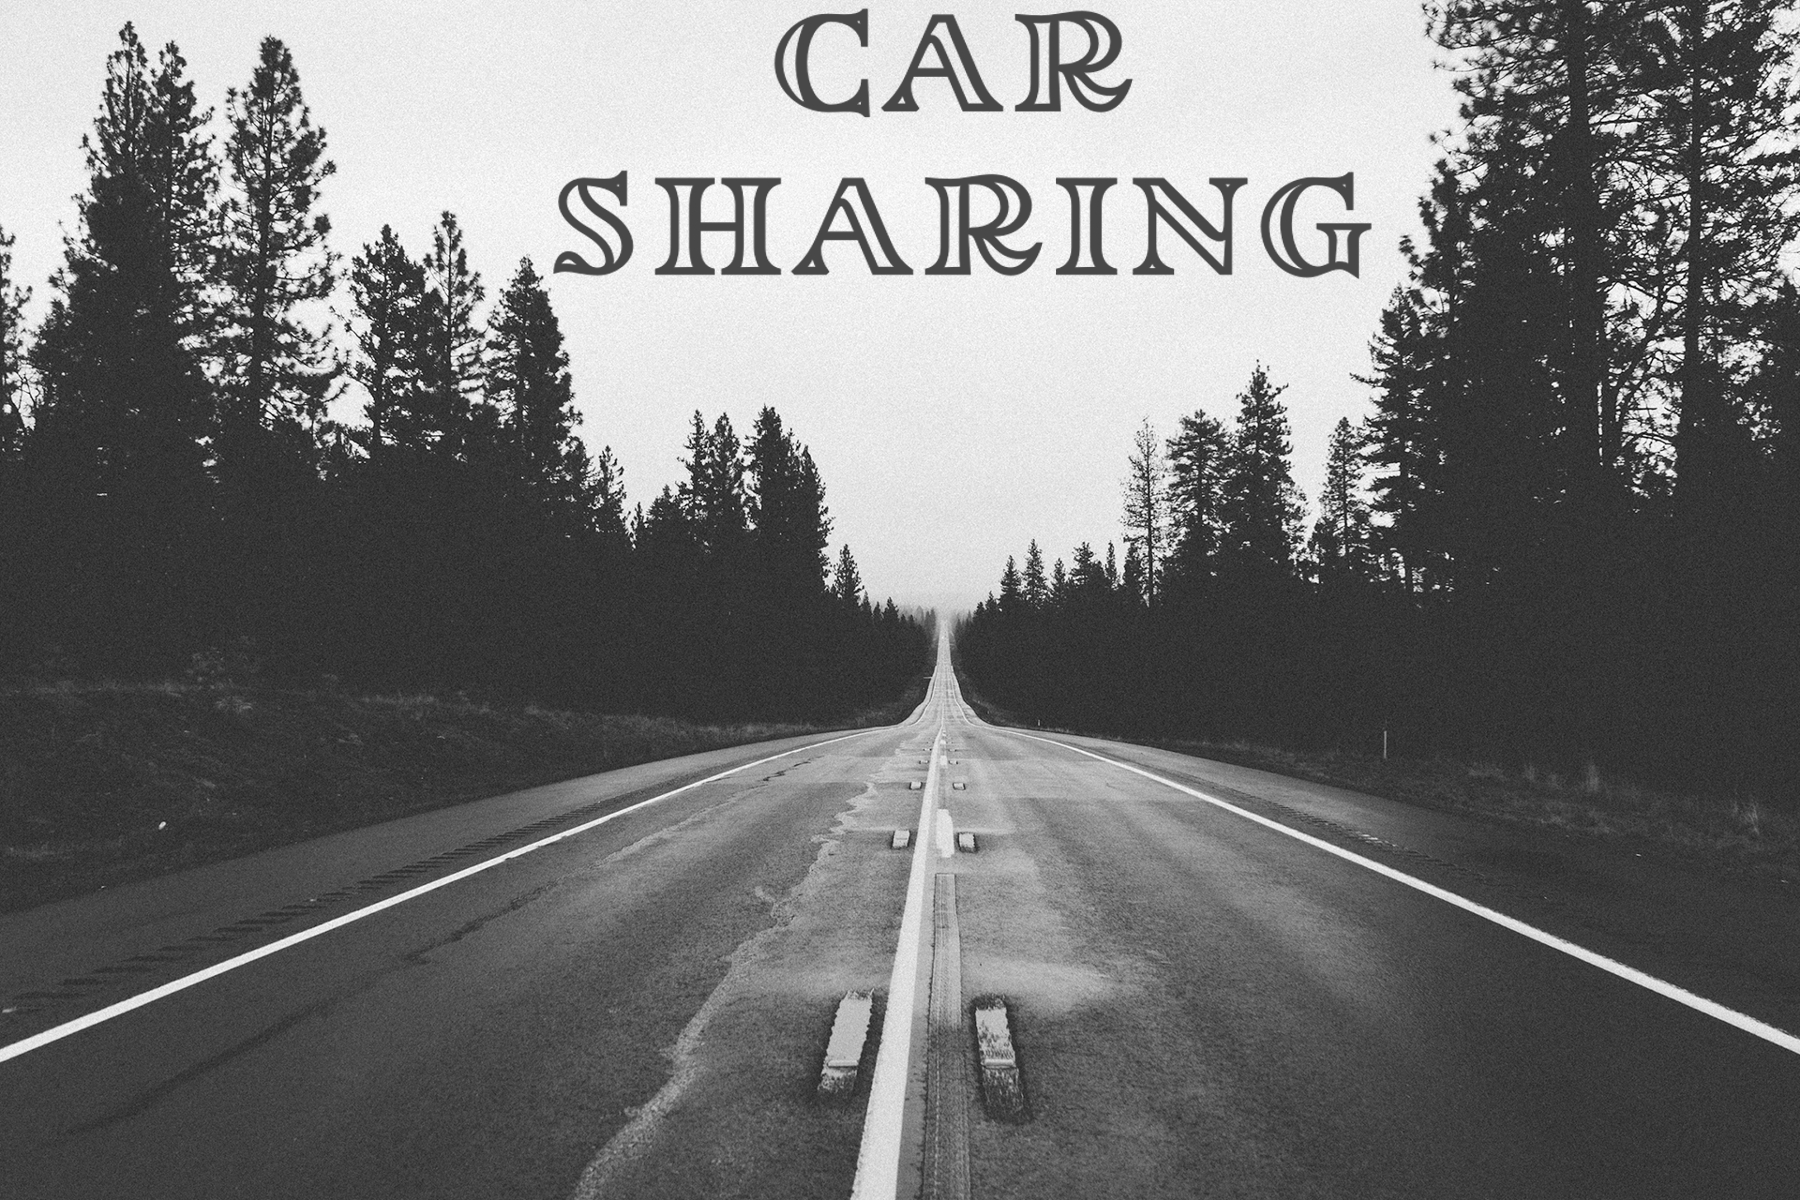
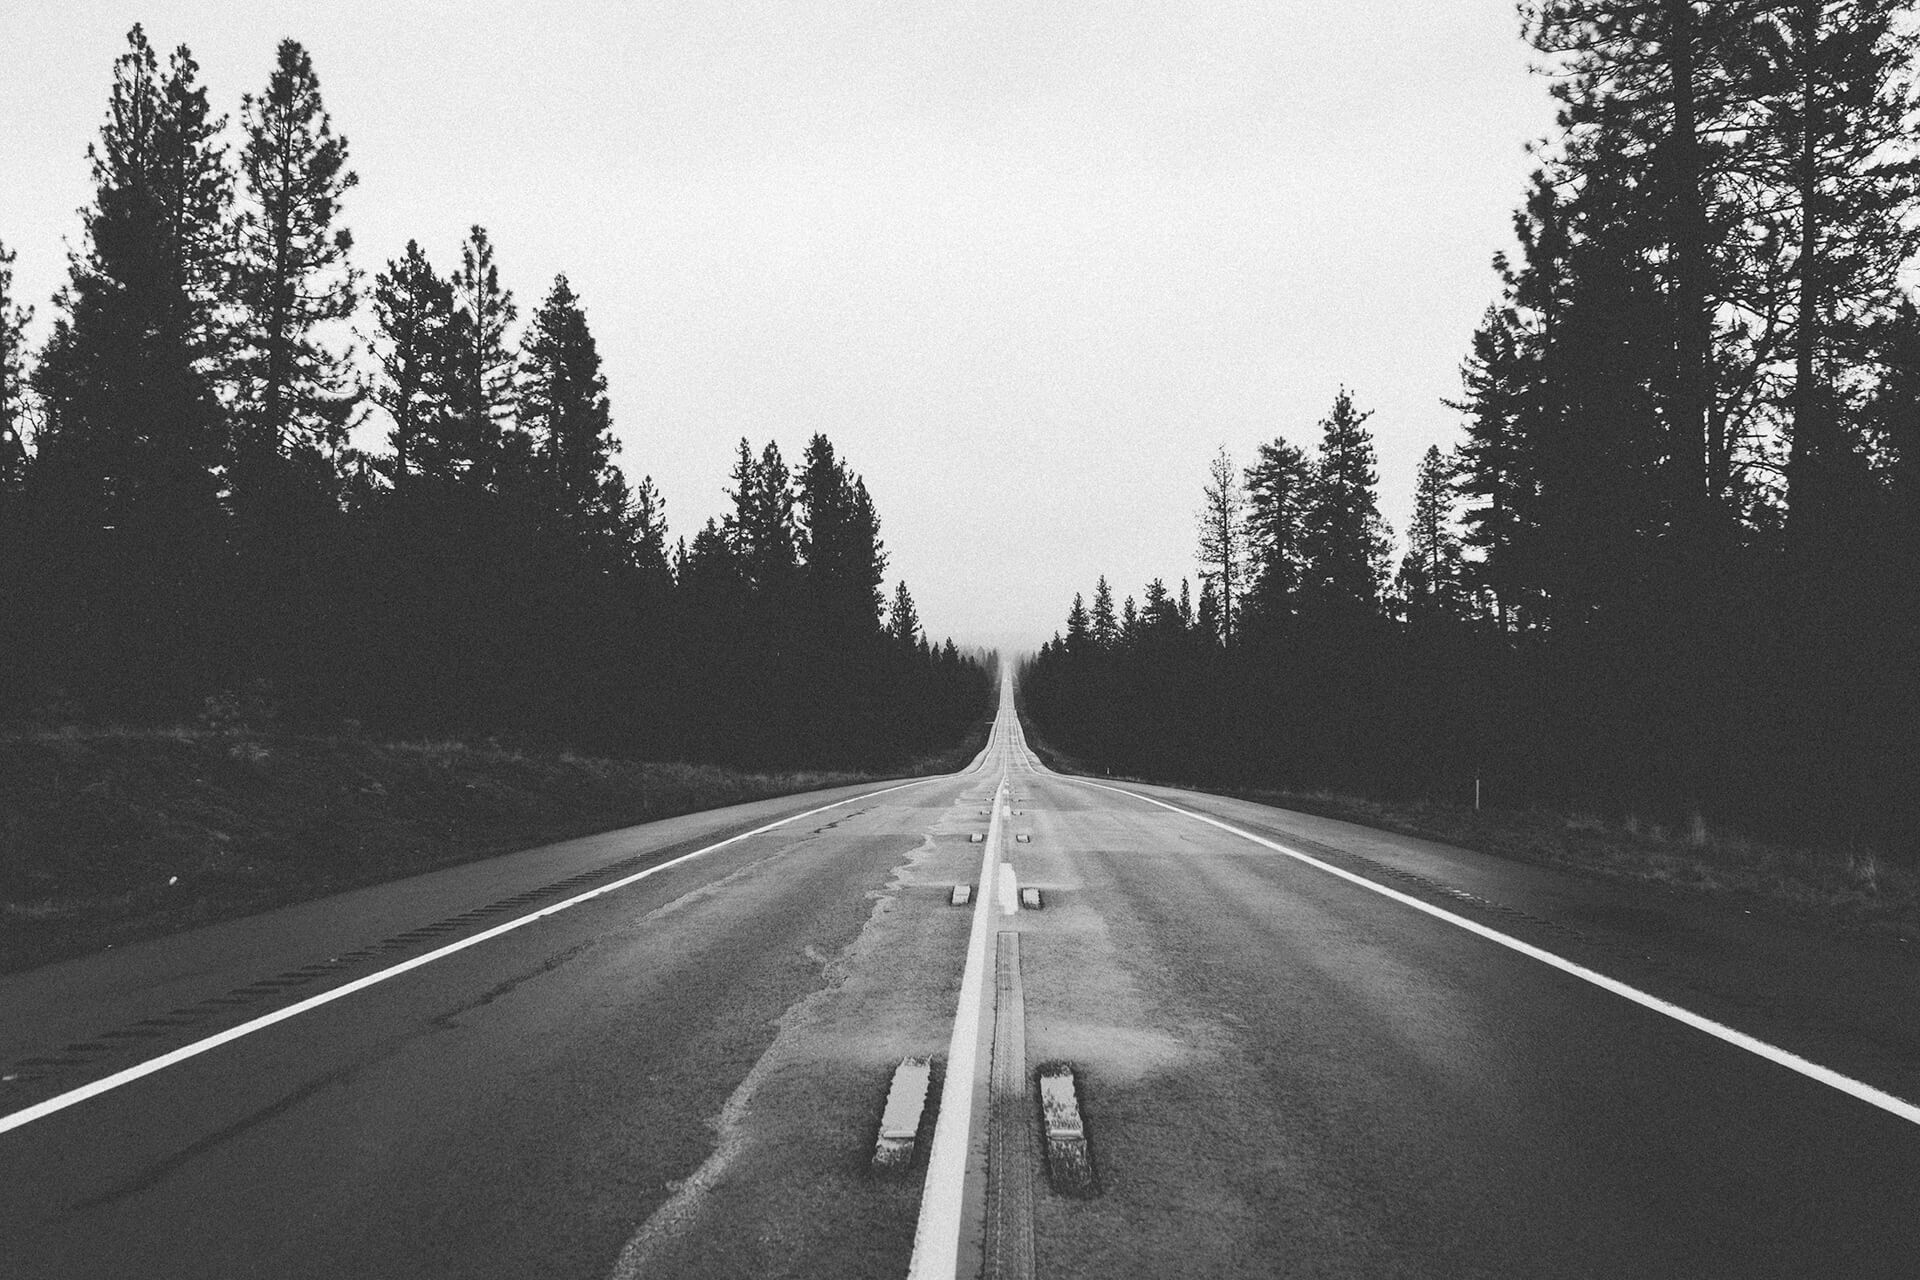
Projeto IG - PGIPR
Portal de Gestão e Inscrição em Provas Running

Changed region(s): [[0.3111, 0.1233, 0.7778, 0.2467], [0.4044, 0.0, 0.6222, 0.0925]]

diff --git a/index.html b/index.html
@@ -5,19 +5,19 @@
     ================================================== -->
     <meta charset="utf-8">
     <meta name="viewport" content="width=device-width, initial-scale=1">
-    <title>Car 4 Day - Home Page</title>
-    <meta name="description" content="Empresa de Mobilidade Urbana a desenvolver uma aplicação de Car Sharing">
-    <meta name="keywords" content="car4day, car, day, carsharing, sharing, urban, mobilidade urbana, mobilidade, urbana, urbanmshare,urban share, urban m share, share, car share, urban car, 4 day, car for day, for day, car a day, car day, car4you, 4you, you, for you, car for you">
-    <meta name="author" content="Pedro Pereira, car4you.ciqueis.com">
-    <meta property="og:image" content="http://car4you.ciqueis.com/img/logo_empresa.png" />
-	<meta property="og:description" content="Website da Empresa Car 4 Day. Car 4 Day é o nome de um grupo de trabalho para o desenvolvimento de uma aplicação em C# de Car Sharing. Mobilidade Urbana é um dos temas mais falados actualmete, sendo o mesmo, tema de trabalho, a desenvolver na disciplina de Sistemas de Apoio a Decisão do 3º ano da Licenciatura de Iformática de Gestão e de Engenharia Informática no ISPGaya." />
-	<meta property="og:url"content="http://car4you.ciqueis.com/" />
-	<meta property="og:title" content="Car 4 Day" />
+    <title>PGIPR - Portal de gestão de inscrição em provas do de running</title>
+    <meta name="description" content="Portal de gestão de inscrição em provas do de running - PGIPR">
+    <meta name="keywords" content="PGIPR">
+    <meta name="author" content="Pedro Pereira, komodoro.github.io">
+    <meta property="og:image" content="" />
+	<meta property="og:description" content="Website de Projeto de IG - ISPGaya - PGIPR" />
+	<meta property="og:url"content="komodoro.github.io" />
+	<meta property="og:title" content="PGIPR - Projeto de IG" />
 
     
     <!-- Favicons
     ================================================== -->
-    <link rel="icon" type="image/png" sizes="16x16" href="img/favicon/favicon-16x16.png">
+    <link rel="icon" type="image/png" sizes="16x16" href="">
 
     <!-- Bootstrap -->
     <link rel="stylesheet" type="text/css"  href="css/bootstrap.css">
@@ -54,7 +54,7 @@
                     <span class="icon-bar"></span>
                     <span class="icon-bar"></span>
                 </button>
-                <a class="navbar-brand">Car 4 Day</a>
+                <a class="navbar-brand">PGIPR</a>
             </div>
             <!-- Collect the nav links, forms, and other content for toggling -->
             <div class="collapse navbar-collapse" id="bs-example-navbar-collapse-1">
@@ -88,7 +88,7 @@
 				    <li><a href="#works" class="page-scroll">Produtos</a></li>
 				    <li><a href="#about-us" class="page-scroll">Sobre Nós</a></li>
 				    <li><a href="#contact" class="page-scroll">Contactos</a></li>
-				    <li><a href="https://urbanshare.ciqueis.com/fr/" class="page-scroll" target="_blank">Área Privada</a></li>
+				    <li><a href="nunofilipe.pt/nfccloud/" class="page-scroll" target="_blank">Área Privada</a></li>
                 </ul>
             </div>
             <!-- /.navbar-collapse -->
@@ -110,7 +110,7 @@
             <li><a href="#works" class="page-scroll">Produtos</a></li>
             <li><a href="#about-us" class="page-scroll">Sobre Nós</a></li>
             <li><a href="#contact" class="page-scroll">Contactos</a></li>
-            <li><a href="https://urbanshare.ciqueis.com/fr/" class="page-scroll">Área Privada</a></li>
+            <li><a href="" class="page-scroll">Área Privada</a></li>
         </ul><!--- End Menu -->
    </div> <!--- End Off Canvas Side Menu -->
 
@@ -123,7 +123,7 @@
             </nav> -->
 
             <div class="content">
-                <h4 style="color:black">Car 4 Day</h4>
+                <h4 style="color:black">PGIPR</h4>
                 <hr>
                 <div class="header-text btn">
                     <h1><span style="color:black" id="head-title"></span></h1>
@@ -145,16 +145,15 @@
                         <h2>Quem Somos</h2>
                         <hr>
                     </div>
-                    <p>A Car 4 Day é uma empresa fundada a 18 de Outubro de 2016 no âmbito da cadeira de Sistemas de Apoio à Decisão.</p>
-                    <p>A Car 4 Day tem como propósito desenvolver uma aplicação para facilitar a mobilidade urbana sob o conceito de car sharing.</p>
-                    <p>Apresenta-se com uma equipa dinâmica e astuta que conclui todas as suas metas e objectivos a atempadamente, superando todos os desafios e barreiras que lhe são apresentados no percurso do desenvolvimento da aplicação Urban M Share. </p>
-                </div>
+					<p>Este projeto, no âmbito da unidade curricular Projeto de IG em contexto de projeto do ISPGaya do 3.º ano da Licenciatura em Informática de Gestão, foi realizado com o propósito de descrever o trabalho realizado no âmbito da criação de uma GIE para auxilio de administradores de grupos de eventos de corrida(running). </p>
+					<p>O projeto Portal de gestão de inscrição em provas de Running (PGIPR) desenvolvido encontra-se enquadrado no conceito de gestão de um grupo desportivo, com o principio de ajudar à gestão e mobilização de interessados em grupos de running à inscrição de provas a serem realizadas por grupos de realização de provas de running externos melhorando a inscrição em futuros eventos de running. </p>
+                    </div>
             </div>
         </div>
     </div>
 
 								<div class="text-center">
-									<img src="img/logo_empresa_peq.png" alt="...">
+									<h1> PGIPR </h1>
 			                    	
 			                    </div>
     
@@ -168,8 +167,7 @@
                     <div class="service">
                         
                         <h4>Missão</h4>
-                        <p>A missão da Car 4 Day é desenvolver serviços para melhorar a deslocação de cada indivíduo no seu dia-a-dia, bem como melhorar esse serviço, assegurando a satisfação dos seus clientes, criando valor para os acionistas e satisfação dos seus parceiros. 
-                        	</p>
+                        <p>A missão do Projeto de IG (PGIPR) é desenvolver serviços para melhorar a inscrição de cada indivíduo em eventos e auxiliar o administrador e responsavel de um clube desportivo a facilitar essa inscrição, bem como melhorar esse serviço, assegurando a satisfação dos seus atletas, criando valor para os acionistas e satisfação dos seus parceiros. </p>
                     </div>
                 </div>
 
@@ -177,9 +175,10 @@
                     <div class="service">
                        
                         <h4>Visão</h4>
-                        <p>Car 4 Day quer ser conhecida por ser uma empresa inovadora e criativa para o mercado, tentando encontrar novas necessidades e melhorias no que diz respeito ao deslocamento/mobilidade urbana.
-                        	</p>
-                    </div>
+                        <p>A Visão aplicada ao Projeto de IG (PGIPR) quer ser conhecida por ser um projeto inovador e criativo para o mercado, tentando encontrar novas necessidades e melhorias no que diz respeito ao desporto e melhoria da vida quotidiana do atleta.</p>
+						<p> </p>
+						<p> </p>
+					</div>
                 </div>
 
                 <div class="col-md-4 col-sm-4">
@@ -189,6 +188,8 @@
                         <p>Integridade, cooperação, respeito pelo meio ambiente, responsabilidade social, valorização e respeito pelas pessoas, satisfação do cliente, excelência e simplicidade.  </p>
 						<p> </p>                    
                     	<p> </p>
+						<p> </p>
+						
                     </div>
                 </div>
                 
@@ -202,99 +203,48 @@
             <div class="row text-center">
                 <div class="col-md-8 col-md-offset-2">
                     <div class="section-title">
-                        <h2>Produtos</h2>
+                        <h2>Produto</h2>
                         <hr>
                     </div>
-                    <p>Desenvolvemos a pensar em si!</p>
+                    <p>Objetivo</p>
                     <br>
-                    <p>O Urban M Share uma aplicação cliente/servidor, desenvolvida na linguagem de programação C# (C Sharp) para Sistemas Operativos Windows. Desenvolvido sob uma linha visual elegante utilizando a tecnologia de Windows Forms, com o intuito de disponibilizar informação existente de organizações de carsharing e os seus serviços.</p>
-                    <p>O Urban M Share permite a visualização de veículos disponiveis das empresas de carsharing, a possibilidade de alugar o veículo disponivel como calcular o valor final a pagar sob o tempo estimado especulado do aluguer. </p>
-                    <p>A aplicação permite no final do aluger, numa proxima sessão, submeter um comentário sobre a empresa/veículo e serviço prestado como também visualizar comentários submetidos por outros clientes. </p>
-                </div>
+					<p>O objetivo principal do projeto é melhorar e ajudar à inscrição automática de grupos de corrida em eventos a serem realizados por entidades de desporto externas à mesma.</p>
+					<p>É uma plataforma restrita e sem permissão de registo de utilizadores. </p>
+					<p>Os utilizadores registados podem inscrever-se em provas disponíveis, e visitantes dá página poderão somente ver eventos/provas que se encontram disponíveis.</p>
+                    </div>
             </div>
             <div class="space"></div>
         </div>
-        <div class="container-fluid">
-            <div class="row">
-                <div class="col-md-4 col-md-offset-4">
-                    <div class="portfolio-item">
-                        <div class="text-center hover-bg">
-                            <a href="http://urbanshare.ciqueis.com" target="_blank">
-                                <div class="hover-text">
-                                    <h5>"Urban M Share"</h5>
-                                    <p class="lead">Urban Car Sharing System for Cities Mobility</p>
-                                    <div class="hline"></div>
-                                </div>
-                                <img src="img/portfolio/01 - urbanMshare_pre_logoxcf_attempt1_no_back.png" class="img-responsive" alt="...">
-                            </a>
-                        </div>
-                    </div>
-                </div>
-               
-    </div>
-    </div>
+        
    </div>
 
     <!-- About Us Section -->
     <div id="about-us">
-        <div class="container">
+        <div class="container text-center">
             <div class="row text-center">
                 <div class="col-md-8 col-md-offset-2">
                     <div class="section-title">
                         <h2>Sobre Nós</h2>
                         <hr>
                     </div>
-                    <p>A nossa equipa jovem e dinâmica</p>
+                    
                 </div>
             </div>
             <div class="space"></div>
-            <div class="row">
-                <div class="col-md-10 col-md-offset-1">
+            <div class="row text-center">
+                <div class="">
                     <div class="row">
-                        <div class="col-md-3 col-sm-3">
-                            <div class="team">
-                                <img src="img/team/nuno.jpg" class="img-responsive img-circle" alt="...">
-                                <br>
-                                <h4>Nuno Costa</h4>
-                                <p class="small">Gestor de Projecto</p>
-                                <hr>
-                            	<p class="small">Experiencia em programação e costumer service.</p>
-                            	<p class="small">Pogramador Junior nivel 1 naGraphics Leader</p> 
-                            </div>
-                        </div>
-
-                        <div class="col-md-3 col-sm-3">
-                            <div class="team">
-                                <img src="img/team/ze.jpg" class="img-responsive img-circle" alt="...">
-                                <br>
-                                <h4>José Guedes</h4>
-                                <p class="small">Analista</p>
-                                <hr>
-                                <p class="small">Experiencia em desenvolvimento web.</p>
-                            </div>
-                        </div>
-
-                        <div class="col-md-3 col-sm-3">
-                            <div class="team">
-                                <img src="img/team/miguel.jpg" class="img-responsive img-circle" alt="...">
-                                <br>
-                                <h4>Miguel Melo</h4>
-                                <p class="small">Programador</p>
-                                <hr>
-                                <p class="small">Experiencia em programação e multimédia.</p>
-                            	<p class="small">Web Developer na Valsousatv.net</p> 
-                            </div>
-                        </div>
                         
-                        <div class="col-md-3 col-sm-3">
+                        
+                        <div class="">
                             <div class="team">
                                 <img src="img/team/pedro.jpg" class="img-responsive img-circle" alt="...">
                                 <br>
                                 <h4>Pedro Pereira</h4>
-                                <p class="small">Secretário</p>
+                                <p class="small">Programador</p>
                                 <hr>
                                 <p class="small">Experiencia em backoffice e redes .</p>
-                            	<p class="small">Pogramador Junior nivel 1 na Indra Sistemas</p> 
+                            	<p class="small">Pogramador Junior nivel 1 na Indra Sistemas (2 anos)</p> 
                             </div>
                         </div>
 
@@ -351,7 +301,7 @@
                         </div>
                         <textarea class="form-control" rows="12" placeholder="Mensagem"></textarea>
                         <div class="text-right">
-                            <a href="mailto:carforyou4@gmail.com" class="btn send-btn">Enviar</a>
+                            <a href="mailto:ig082389@gmail.com" class="btn send-btn">Enviar</a>
                         </div>
                     </form>
                 </div>
@@ -361,7 +311,7 @@
     <nav id="footer">
         <div class="container">
              <div class="pull-left">
-                <p>2016 © Car 4 Day. All Rights Reserved.</p>
+                <p>2017 © Pedro Pereira - Projeto de IG - PGIPR (Portal de Gestão e Inscrição Provas Running). All Rights Reserved.</p>
             </div>
             <div class="pull-right"> 
                 <a href="#home" class="page-scroll">Back to Top <span class="fa fa-angle-up"></span></a>
@@ -381,7 +331,7 @@
     <script>
       $(function(){
           $("#head-title").typed({
-            strings: ["Bem-vindo a Car 4 Day^1000", "Explore os nossos serviços^1000" ,"Urban M Share é para si^1000"],
+            strings: ["Bem-vindo a Projeto de IG^1000", "Portal de Gestão e Inscrição em Provas Running^1000" ,"PGIPR^1000"],
             typeSpeed: 100,
             loop: true,
             startDelay: 100
